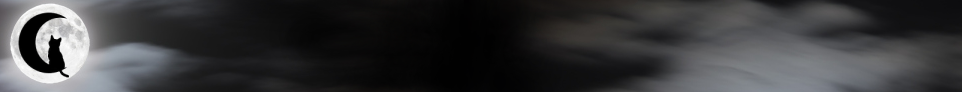
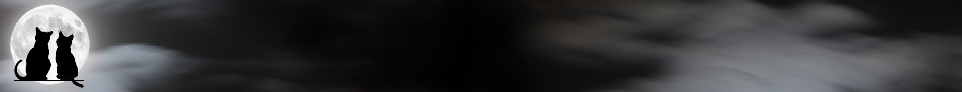
change header

Changed region(s): [[0.0, 0.1304, 0.0936, 0.9565], [0.0312, 0.0435, 0.0936, 0.087], [0.1247, 0.4565, 0.1559, 0.4783]]

diff --git a/src/components/Header.vue b/src/components/Header.vue
@@ -4,7 +4,7 @@
       <img class="header-bi" src="../assets/images/header_bi.png">
       <img class="header-bi-m" src="../assets/images/header_bi_m.png">
       <img class="title" src="../assets/images/header_title.png">
-      <img class="sub-title" src="../assets/images/header_sub_title.png">
+      <!-- <img class="sub-title" src="../assets/images/header_sub_title.png"> -->
     </div>
   </div>
 </template>
@@ -30,14 +30,14 @@ export default {
   }
   .title {
     position: absolute;
-    top: 8%;
-    left: 15%;
-    height: 60%;
+    top: 10%;
+    left: 20%;
+    height: 70%;
   }
   .sub-title {
     position: absolute;
     top: 45%;
-    left: 30%;
+    left: 35%;
     height: 50%;
   }
   @media only screen and (max-width: 767px) {
@@ -48,10 +48,10 @@ export default {
       display: block;
     }
     .title {
-      left: 20%;
+      left: 33%;
     }
     .sub-title {
-      left: 48%;
+      left: 55%;
     }
   }
 }
